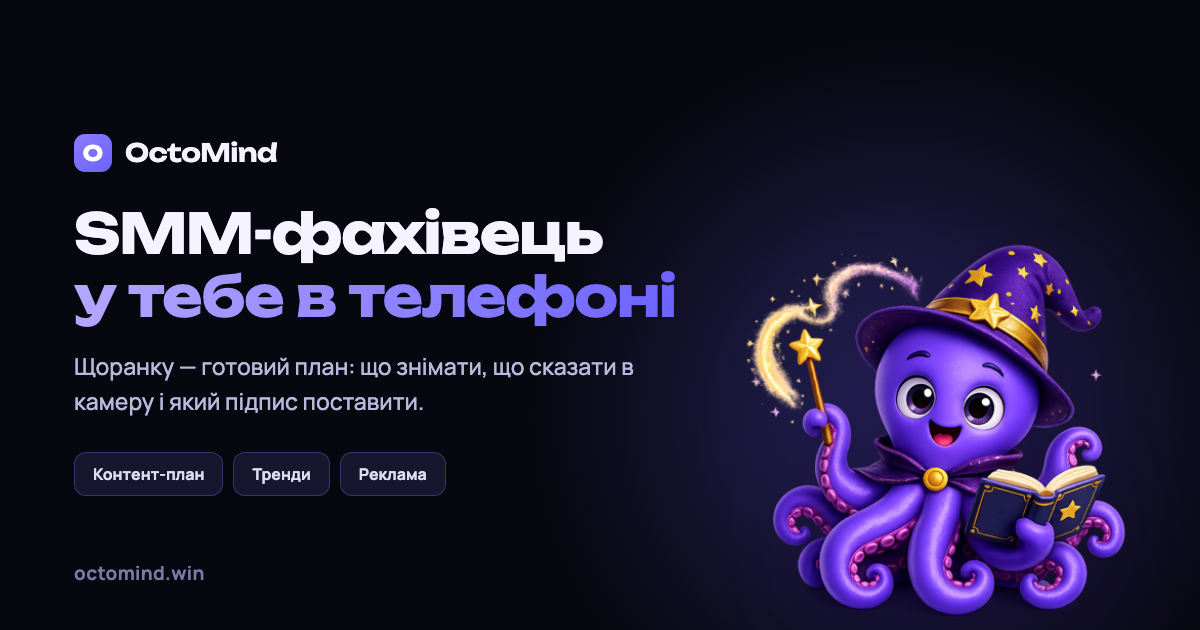
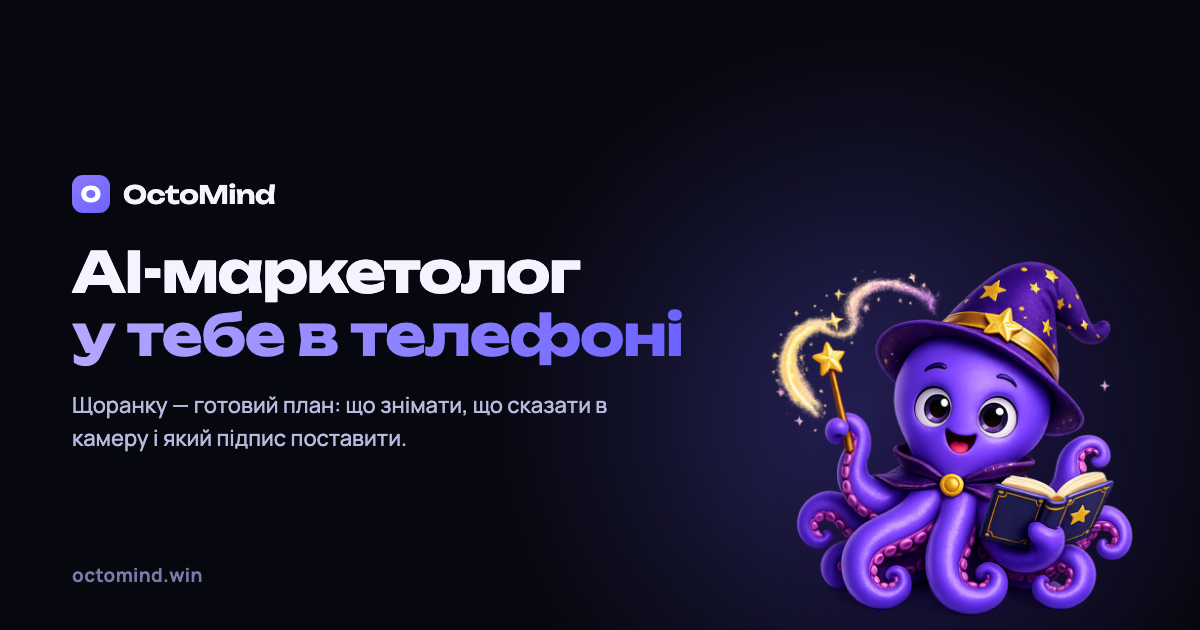
feat(landing): одна обіцянка — «AI-маркетолог у тебе в телефоні»
Рішення користувача: головна обіцянка — саме «AI-маркетолог», а не
«SMM-фахівець». Це узгоджено з правилом продукту «маркетолог, а не редактор»:
SMM-фахівець звужував би до контенту, тоді як продукт робить і стратегію, і
рекламу, і дослідження ніші.

Проблема, яку це закриває: лендинг, банер і опис посилання казали ТРИ різні
речі одночасно — «AI-маркетолог», «реклама з фото товару за 2 хвилини» і
«кампанія на тиждень». Холодна людина з реклами не встигає зрозуміти, що їй
пропонують. Тепер скрізь одне.

Підзаголовок замінено з переліку фіч («концепції, тексти, контент-плани,
кампанії та ідеї») на конкретну щоденну дію: «Щоранку — готовий план: що
знімати, що сказати в камеру і який підпис поставити». Сама по собі
«AI-маркетолог» — абстракція, у неї не вірять; друге речення робить її
перевіряємою.

Приведено до одного: <title>, og:title, og:description, og:image:alt, h1,
підзаголовок героя і банер 1200×630.

diff --git a/mobile/landing.html b/mobile/landing.html
@@ -3,15 +3,15 @@
 <head>
 <meta charset="UTF-8">
 <meta name="viewport" content="width=device-width, initial-scale=1, viewport-fit=cover">
-<title>OctoMind — AI-маркетолог для малого бізнесу</title>
+<title>OctoMind — AI-маркетолог у тебе в телефоні</title>
 <meta name="description" content="Завантаж фото товару — отримай рекламні концепції, тексти й CTA за 2 хвилини. AI-маркетолог для малого бізнесу, який не має SMM-фахівця. Українською.">
 <meta name="theme-color" content="#07070f">
 <link rel="icon" type="image/png" sizes="32x32" href="/icons/favicon.png">
 <link rel="apple-touch-icon" sizes="180x180" href="/icons/apple-touch-icon.png">
 
 <meta property="og:type" content="website">
-<meta property="og:title" content="OctoMind — AI-маркетолог для малого бізнесу">
-<meta property="og:description" content="Фото товару → рекламні концепції й тексти за 2 хвилини. Без SMM-фахівця. Українською.">
+<meta property="og:title" content="OctoMind — AI-маркетолог у тебе в телефоні">
+<meta property="og:description" content="Щоранку — готовий план: що знімати, що сказати в камеру і який підпис поставити. Українською.">
 <!-- og:image мусить бути АБСОЛЮТНИМ URL: за відносним шляхом Meta і Facebook
      не підтягують картинку, і превʼю посилання в оголошенні лишається порожнім.
      Розмір теж указуємо явно — інакше скрейпер іноді пропускає зображення.
@@ -22,7 +22,7 @@
 <meta property="og:image" content="https://octomind.win/og-image.png">
 <meta property="og:image:width" content="1200">
 <meta property="og:image:height" content="630">
-<meta property="og:image:alt" content="OctoMind — SMM-фахівець у тебе в телефоні">
+<meta property="og:image:alt" content="OctoMind — AI-маркетолог у тебе в телефоні">
 <meta name="twitter:image" content="https://octomind.win/og-image.png">
 <meta property="og:url" content="https://octomind.win/">
 <meta property="og:site_name" content="OctoMind">
@@ -383,11 +383,9 @@
     <div class="wrap hero-grid">
       <div>
         <span class="pill"><i class="dot"></i> Працює українською · Free-план без картки</span>
-        <h1>AI-маркетолог для малого бізнесу, <span class="hl">який не має SMM-фахівця</span></h1>
+        <h1>AI-маркетолог<br>у тебе в телефоні</h1>
         <p class="lead">
-          OctoMind допомагає створювати рекламні концепції, тексти, контент-плани, кампанії
-          та ідеї для просування — українською мовою.
-        </p>
+          Щоранку — готовий план: що знімати, що сказати в камеру і який підпис поставити. Для тих, хто веде просування сам, без SMM-фахівця.</p>
         <div class="hero-cta">
           <button class="btn btn-primary btn-lg" data-cta="signup" data-go="prodads">
             Спробувати безкоштовно
